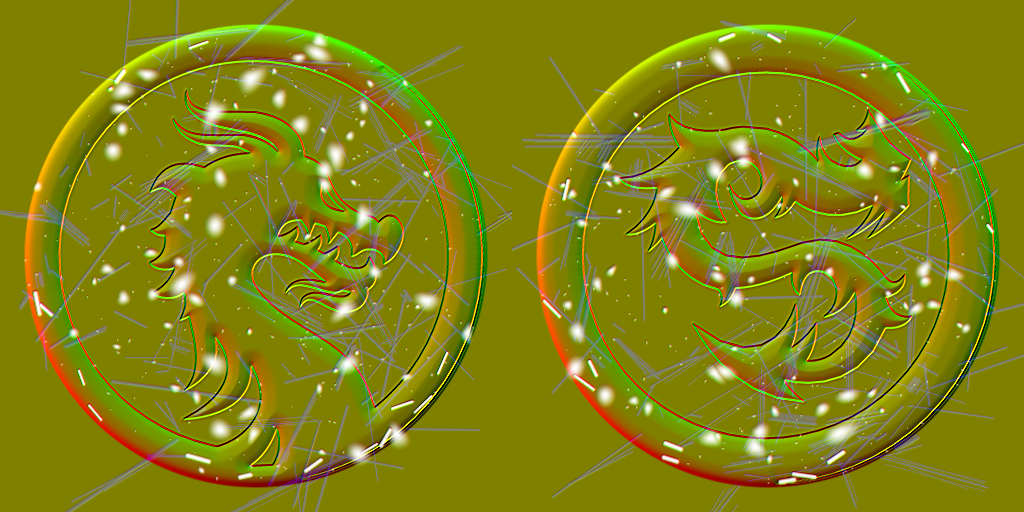
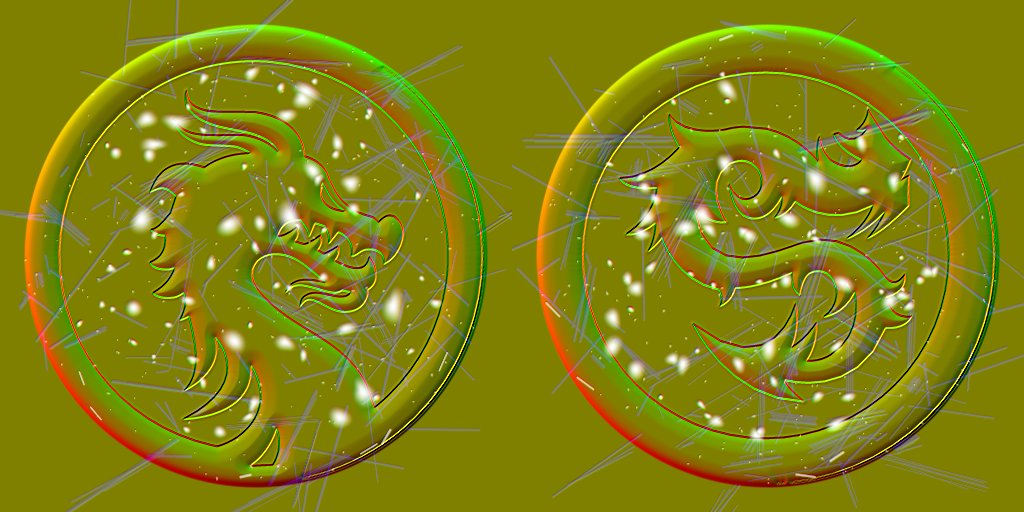
Keep the wear off the coin's rim
On a phone at the reveal's distance the rim's highlight broke into bright and
dark blobs that read as faults in the shading. They were the rim's own baked
damage and the strike's swell: the rim is domed and polished, so every dent
that landed on it, every deep nick and the swell wandering across it broke
its highlight. Real coin rims are the most evenly worn part of the coin.
Dents now stay in the field, the rim's nicks are few and shallow, and the
swell is mostly the field's.

Claude-Session: https://claude.ai/code/session_01DY7GLHKDYbddaKqhU954QH

diff --git a/src/scene/coin-material.ts b/src/scene/coin-material.ts
@@ -404,9 +404,13 @@ float coinMicroMark = 0.7 * coinMicro.z + coinMicro.w;
 // surface, in the two directions the map's slopes are read along.
 vec3 coinAcrossObject = normalize(mix(vec3(1.0, 0.0, 0.0), -coinTangentObject, coinSideness));
 vec3 coinAlongObject = normalize(mix(vec3(0.0, 0.0, 1.0), vec3(0.0, 1.0, 0.0), coinSideness));
+// Mostly in the field: the rim and the relief's crowns are the most evenly
+// worn parts of a coin, and on the domed, polished rim the swell broke the
+// highlight into blobs that read from across the tray as faults.
+float coinSwellAmount = 0.3 + 0.7 * coinCavity;
 float coinH0 = coinSwell(coinP);
-float coinSlopeU = coinSurface.x + (coinSwell(coinP + coinAcrossObject * 0.004) - coinH0) / 0.004;
-float coinSlopeV = coinSurface.y + (coinSwell(coinP + coinAlongObject * 0.004) - coinH0) / 0.004;
+float coinSlopeU = coinSurface.x + coinSwellAmount * (coinSwell(coinP + coinAcrossObject * 0.004) - coinH0) / 0.004;
+float coinSlopeV = coinSurface.y + coinSwellAmount * (coinSwell(coinP + coinAlongObject * 0.004) - coinH0) / 0.004;
 vec3 coinU = normalize(mix(vCoinX, -vCoinTangent, coinSideness));
 vec3 coinV = normalize(mix(vCoinZ, vCoinAxis, coinSideness));
 float coinFootprint = length(fwidth(coinP));

diff --git a/README.md b/README.md
@@ -562,6 +562,13 @@ blocks on the rim, hard-edged between quads, with a level top at the ring, that
 survived every test of the maps, the shadows and the reflections before the
 `coinDull` debug channel showed the same rectangles.
 
+The rim itself carries almost no wear. It is the most evenly worn part of a
+real coin, and it is domed and polished, so every dent that landed on it, every
+deep nick and the strike's swell wandering across it broke its highlight into
+bright and dark blobs that read from across the tray — on a phone at the reveal's
+distance — as faults in the shading. Dents now stay in the field, the rim's nicks
+are few and shallow, and the swell is mostly the field's.
+
 The asset build stores how deep into a recess each vertex sits in the UV slot the
 coin has no use for, and bakes how far each point of the field is from the foot
 of a wall into a 256-pixel map, one channel per face, that the shader samples by
